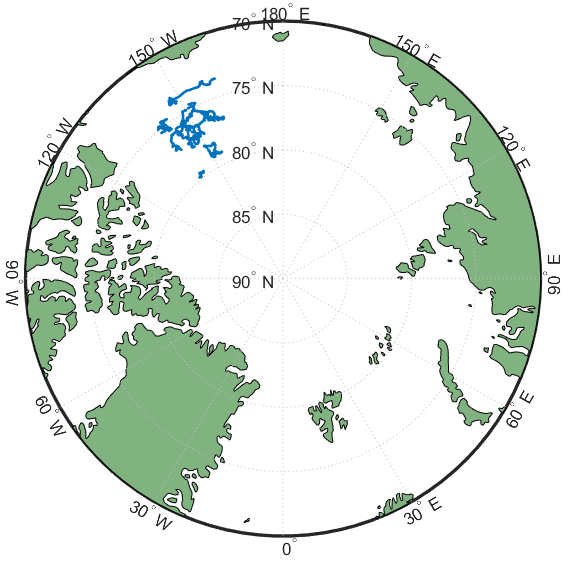
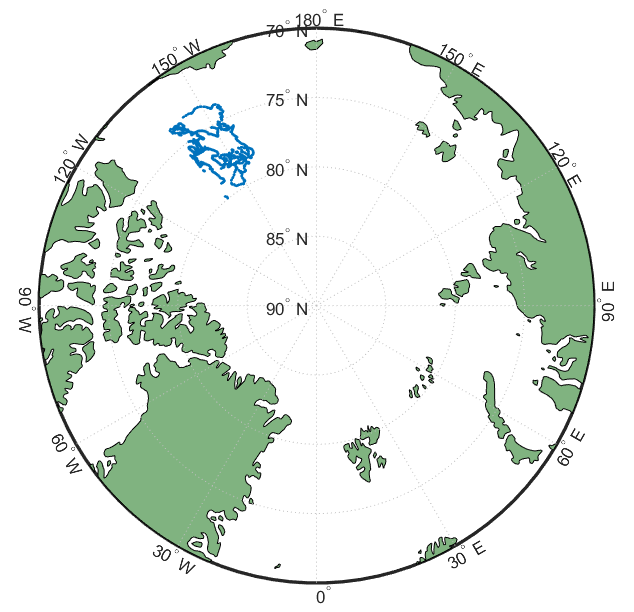
adds more examples

diff --git a/itp_matlab/Profile.m b/itp_matlab/Profile.m
@@ -40,6 +40,9 @@ classdef Profile
             );
         end
         function out = potential_density(obj, p_ref)
+            if ~exist('p_ref', 'var')
+                p_ref = 0;
+            end
             out = gsw_rho(...
                 obj.absolute_salinity(),... 
                 obj.conservative_temperature(),... 
@@ -47,6 +50,9 @@ classdef Profile
             );
         end
         function out = potential_temperature(obj, p_ref)
+            if ~exist('p_ref', 'var')
+                p_ref = 0;
+            end
             out = gsw_pt_from_t(...
                 obj.absolute_salinity(),...
                 obj.temperature,...

diff --git a/examples/stations_2019.m b/examples/stations_2019.m
@@ -2,7 +2,7 @@ clc
 clear
 
 path = '../itp_final_2021_01_20.db';
-dateRange = [datenum(2010, 1, 1), datenum(2011, 1, 1)];
+dateRange = [datenum(2019, 1, 1), datenum(2020, 1, 1)];
 
 profiles = load_itp(path,... 
                     'latitude', [70, 80],... 

diff --git a/README.md b/README.md
@@ -57,11 +57,11 @@ Calculates height from sea pressure (+ up).
 **depth**()  
 Calculates depth from sea pressure; simply negative height (+ down).
 
-**potential\_temperature**(*p_ref*)  
-Calculates potential temperature at a specified reference pressure, `p_ref`
+**potential\_temperature**(*[p_ref]*)  
+Calculates potential temperature at a specified reference pressure, `p_ref`. If p_ref is omitted, a default value of 0 will be used.  
 
-**potential\_density**(*p_ref*)  
-Calculates potential density at a specified reference pressure, `p_ref` 
+**potential\_density**(*[p_ref]*)  
+Calculates potential density at a specified reference pressure, `p_ref`. If p_ref is omitted, a default value of 0 will be used.  
 
 **conservative\_temperature**()  
 Calculates Conservative Temperature  
@@ -91,7 +91,7 @@ The function returns the requested profiles as a vector of `Profile` objects:
 ```
 1546 profiles returned in 2.68 seconds
 ```
-Every `Profile` object has the following properties. 
+You can investigate a `Profile` object to see its [properties](#properties). 
 ```
 >> profiles(1)
 Profile with properties:
@@ -112,7 +112,7 @@ ans =
    79.6348
 ```
 
-`Profile` methods can be called to calculate derived values:
+`Profile` [methods](#methods) can be called to calculate derived values:
 
 ```
 >> profiles(1).depth()
@@ -137,6 +137,47 @@ ans =
   Columns 1541 through 1546
    75.3289   75.1791   74.9671   74.7733   74.6489   74.5291
 ```
+
+### Example - Plot a Potential Temperature vs Depth profile
+Plot the first profile from ITP 10
+```
+path = '../itp_final_2021_01_20.db';
+profiles = load_itp(path, 'system', 10);
+
+figure('Color', 'white')
+plot(profiles(1).potential_temperature(0), profiles(1).depth)
+axis ij;
+
+xlabel('Potential Temperature (°C)')
+ylabel('Depth (m)')
+```
+
+<img src='https://github.com/WHOI-ITP/ITP-MATLAB/raw/master/resources/profile.PNG' height='400'/>
+
+
+### Example - Plot Potential Temperature vs Depth 
+Plot all data points between 0 and 150 meters for ITP 10
+```
+path = '../itp_final_2021_01_20.db';
+DEPTH_RANGE = [0, 150];
+
+profiles = load_itp(...
+    path,...
+    'system', 10,...
+    'pressure', [0, 1]...
+);
+
+figure('Color', 'white')
+ax = axes;
+hold(ax, 'on')
+
+for i = 1:length(profiles)
+    plot(profiles(i).potential_temperature(0), profiles(i).depth, 'b.')
+end
+axis ij;
+ylim(DEPTH_RANGE);
+```
+<img src='https://github.com/WHOI-ITP/ITP-MATLAB/raw/master/resources/overplot.PNG' height='400'/>
 
 ### Example - Scatter plot the locations of all the profiles on a map (requires MATLAB mapping toolbox)
 Using the data from the last example, plot the profile locations on a map
